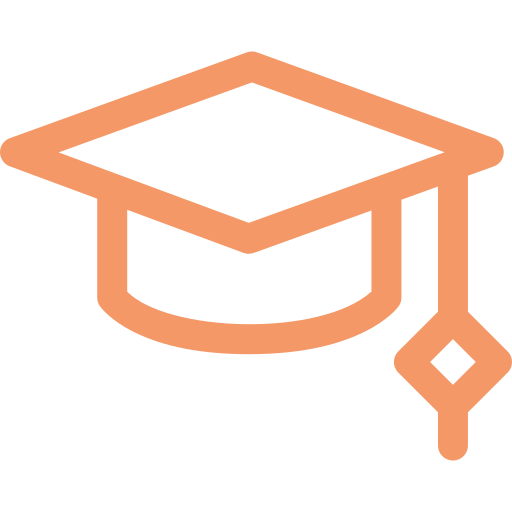
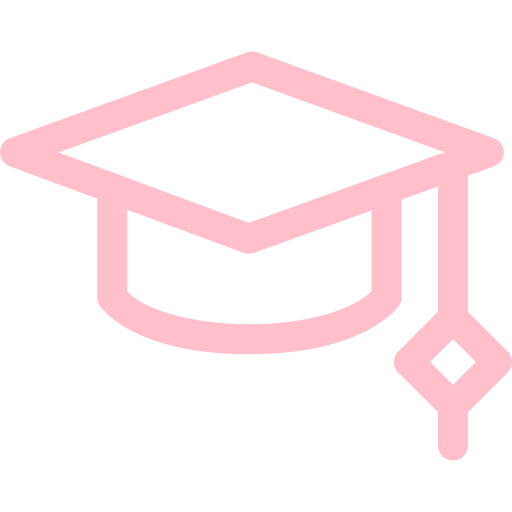
change light color to pink for timeline

Changed region(s): [[0.0, 0.0938, 1.0, 0.9062]]

diff --git a/src/components/Timeline.css b/src/components/Timeline.css
@@ -30,7 +30,7 @@
 }
 
 .active h2 {
-  color: #f49867;
+  color: pink;
 }
 
 .inactive h2 {
@@ -40,16 +40,15 @@
 /* The actual timeline (the vertical ruler) */
 .portfolio__experience-timeline {
   position: flex;
-  max-width: 1200px;
   margin: 0 auto;
 }
 
 /* The actual timeline (the vertical ruler) */
-.timeline::after {
+.portfolio__experience-timeline::after {
   content: "";
   position: absolute;
-  width: 6px;
-  background-color: white;
+  width: 2px;
+  background-color: pink;
   top: 0;
   bottom: 0;
   left: 50%;
@@ -57,7 +56,7 @@
 }
 
 /* Container around content */
-.container {
+.portfolio__experience-timeline-container {
   padding: 10px 40px;
   position: relative;
   background-color: inherit;
@@ -65,14 +64,13 @@
 }
 
 /* The circles on the timeline */
-.container::after {
+.portfolio__experience-timeline-container::after {
   content: "";
   position: absolute;
-  width: 25px;
-  height: 25px;
-  right: -17px;
-  background-color: white;
-  border: 4px solid #ff9f55;
+  width: 12px;
+  height: 12px;
+  right: -4px;
+  background-color: pink;
   top: 15px;
   border-radius: 50%;
   z-index: 1;
@@ -88,67 +86,30 @@
   left: 50%;
 }
 
-/* Add arrows to the left container (pointing right) */
-.left::before {
-  content: " ";
-  height: 0;
-  position: absolute;
-  top: 22px;
-  width: 0;
-  z-index: 1;
-  right: 30px;
-  border: medium solid white;
-  border-width: 10px 0 10px 10px;
-  border-color: transparent transparent transparent white;
-}
-
-/* Add arrows to the right container (pointing left) */
-.right::before {
-  content: " ";
-  height: 0;
-  position: absolute;
-  top: 22px;
-  width: 0;
-  z-index: 1;
-  left: 30px;
-  border: medium solid white;
-  border-width: 10px 10px 10px 0;
-  border-color: transparent white transparent transparent;
-}
-
 /* Fix the circle for containers on the right side */
 .right::after {
-  left: -16px;
+  left: -8px;
 }
 
 /* The actual content */
-.content {
+.portfolio__experience-timeline-content {
   padding: 20px 30px;
-  background-color: white;
+  background-color: transparent;
   position: relative;
-  border-radius: 6px;
 }
 
 /* Media queries - Responsive timeline on screens less than 600px wide */
 @media screen and (max-width: 600px) {
   /* Place the timelime to the left */
-  .timeline::after {
+  .portfolio__experience-timeline::after {
     left: 31px;
   }
 
   /* Full-width containers */
-  .container {
+  .portfolio__experience-timeline-container {
     width: 100%;
     padding-left: 70px;
     padding-right: 25px;
-  }
-
-  /* Make sure that all arrows are pointing leftwards */
-  .container::before {
-    left: 60px;
-    border: medium solid white;
-    border-width: 10px 10px 10px 0;
-    border-color: transparent white transparent transparent;
   }
 
   /* Make sure all circles are at the same spot */

diff --git a/src/components/Timeline.jsx b/src/components/Timeline.jsx
@@ -49,8 +49,8 @@ const Timeline = () => {
       </div>
       {!showEducation && (
         <div class="portfolio__experience-timeline">
-          <div class="portfolio__experience-timeline container left">
-            <div class="portfolio__experience-timeline content">
+          <div class="portfolio__experience-timeline-container left">
+            <div class="portfolio__experience-timeline-content">
               <h2>May 2022 - Present</h2>
               <p>Software Engineer at Cargill</p>
               <p>
@@ -59,8 +59,8 @@ const Timeline = () => {
               </p>
             </div>
           </div>
-          <div class="portfolio__experience-timeline container right">
-            <div class="portfolio__experience-timeline content">
+          <div class="portfolio__experience-timeline-container right">
+            <div class="portfolio__experience-timeline-content">
               <h2>Sep 2020 - May 2022</h2>
               <p>Process Engineer at Cargill</p>
               <p>
